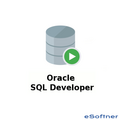
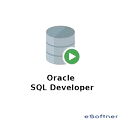
타르코프 플젝 내용추가, 아이콘 배경삭제

diff --git a/src/main/resources/static/index.html b/src/main/resources/static/index.html
@@ -163,7 +163,6 @@
                                                 <p>Escape From Tarkov 도우미 서비스</p>
                                                 <p>Escape From Tarkov Helper 이 프로젝트는 "이스케이프 프롬 타르코프 (Escape from Tarkov)" 게임 정보를 제공하는 웹 사이트입니다.</p>
                                                 <p>이 웹 사이트는 "이스케이프 프롬 타르코프" 게임에 관한 탄약, 방탄, 헬멧, 마켓 정보 및 게임 맵 정보를 제공합니다.</p>
-                                                <a href="">프로젝트 링크</a>
                                             </div>
                                         </div>
                                         <hr />
@@ -208,11 +207,86 @@
                                             </div>
                                         </div>
                                         <hr />
-                                        <div>
-                                            <div>기능 및 사용법</div>
-                                            <div></div>
+                                        <h1>기능 및 사용법</h1>
+                                        <div class="task-container task-flex-container">
+                                            <div>
+                                                <h6>카테고리, 검색</h6>
+                                                <ul>
+                                                    <li>사용자는 Ammo, Armor, Headwear, Market, Map의 기능을 사용할 수 있습니다.</li>
+                                                    <li>그중 Ammo에관한 부분이며 각종 탄약에대한 종류를 확인할 수 있습니다.</li>
+                                                    <li>검색기능으로 탄 종류를 입력하면 해당값만 불러올 수 있습니다.</li>
+                                                </ul>
+                                            </div>
+                                            <div class="task-img-container">
+                                                <img src="img/kategorie500.png" class="task-img">
+                                                <img src="img/kategorie-2-500.png" class="task-img">
+                                            </div>
                                         </div>
-
+                                        <div class="task-container task-flex-container">
+                                            <div>
+                                                <h6>탄약확인</h6>
+                                                <ul>
+                                                    <li>탄 목록에서 선택한 탄의 정보를 불러옵니다.</li>
+                                                    <li>이미지, 종류, 탄약이름, 데미지, 탄속, 반동, 정밀도, 관통수치를 나타냅니다.</li>
+                                                    <li>타르코프를 플레이하는 유저들이 가장 많이 확인하는부분이며 보기편하게 색상을 입혀두었습니다.</li>
+                                                </ul>
+                                            </div>
+                                            <div class="task-img-container">
+                                                <img src="img/ammo500.png" class="task-img">
+                                            </div>
+                                        </div>
+                                        <div class="task-container task-flex-container">
+                                            <div>
+                                                <h6>방탄복</h6>
+                                                <ul>
+                                                    <li>카테고리에서 Armor로 들어갈때 보여지는 화면입니다.</li>
+                                                    <li>탄약과 마찬가지로 방탄복에대한 정보를 불러옵니다.</li>
+                                                </ul>
+                                            </div>
+                                            <div class="task-img-container">
+                                                <img src="img/armor500.png" class="task-img">
+                                            </div>
+                                        </div>
+                                        <div class="task-container task-flex-container">
+                                            <div>
+                                                <h6>방탄헬멧</h6>
+                                                <ul>
+                                                    <li>카테고리에서 Headwear로 들어갈때 보여지는 화면입니다.</li>
+                                                    <li>방탄복과 마찬가지로 방탄헬멧에대한 정보를 불러옵니다.</li>
+                                                </ul>
+                                            </div>
+                                            <div class="task-img-container">
+                                                <img src="img/headwear500.png" class="task-img">
+                                            </div>
+                                        </div>
+                                        <div class="task-container task-flex-container">
+                                            <div>
+                                                <h6>마켓</h6>
+                                                <ul>
+                                                    <li>카테고리에서 market에 들어갈때 보여지는 화면입니다.</li>
+                                                    <li>실제 게임속에서 마켓에 올라와있는 정보를 불러옵니다.</li>
+                                                    <li>해외 사이트 tarkov-market에서 제공하는 api를 이용하여 데이터를 가져왔습니다.</li>
+                                                </ul>
+                                            </div>
+                                            <div class="task-img-container">
+                                                <img src="img/market500.png" class="task-img">
+                                            </div>
+                                        </div>
+                                        <div class="task-container task-flex-container">
+                                            <div>
+                                                <h6>지도</h6>
+                                                <ul>
+                                                    <li>카테고리에서 map에 들어갈때 보여지는 화면입니다.</li>
+                                                    <li>현재까지 나온 모든 맵에대한 정보를 나타내는 페이지입니다.</li>
+                                                    <li>기본적으로 해당맵에대한 배경화면이 나오며 클릭시 그 맵에대한 자세한 정보가 나타납니다.</li>
+                                                    <li>사이트 내에 모든 api와 지도의 저작권에대한 표시를 해두었습니다.</li>
+                                                </ul>
+                                            </div>
+                                            <div class="task-img-container">
+                                                <img src="img/map500.png" class="task-img">
+                                                <img src="img/map-2-500.png" class="task-img">
+                                            </div>
+                                        </div>
                                     </div>
                                 </div>
                             </div>
@@ -244,9 +318,11 @@
                                         <hr />
                                         <div>
                                             <h1>개발 환경</h1>
-                                            <span>Web Frontend(HTML5, CSS3, JS, Jquery, Bootstrap)</span>
-                                            <span>Web Backend(Java, Spring, Mybatis, jsp, Python, Flask, Swagger, Oracle, Numpy, Pandas)</span>
-                                            <span>Versioning(Git, Github)</span>
+                                            <ul>
+                                                <li>Web Frontend(HTML5, CSS3, JS, Jquery, Bootstrap)</li>
+                                                <li>Web Backend(Java, Spring, Mybatis, jsp, Python, Flask, Swagger, Oracle, Numpy, Pandas)</li>
+                                                <li>Versioning(Git, Github)</li>
+                                            </ul>
                                         </div>
                                         <hr />
                                         <div>
@@ -362,9 +438,11 @@
                                         <hr />
                                         <div>
                                             <h1>개발 환경</h1>
-                                            <span>Web Frontend(HTML5, CSS3, JS, Jquery, Bootstrap)</span>
-                                            <span>Web Backend(Java, Spring, Mybatis, jsp, Oracle)</span>
-                                            <span>Versioning(Git, Github)</span>
+                                            <ul>
+                                                <li>Web Frontend(HTML5, CSS3, JS, Jquery, Bootstrap)</li>
+                                                <li>Web Backend(Java, Spring, Mybatis, jsp, Oracle)</li>
+                                                <li>Versioning(Git, Github)</li>
+                                            </ul>
                                         </div>
                                         <hr />
                                         <div>
